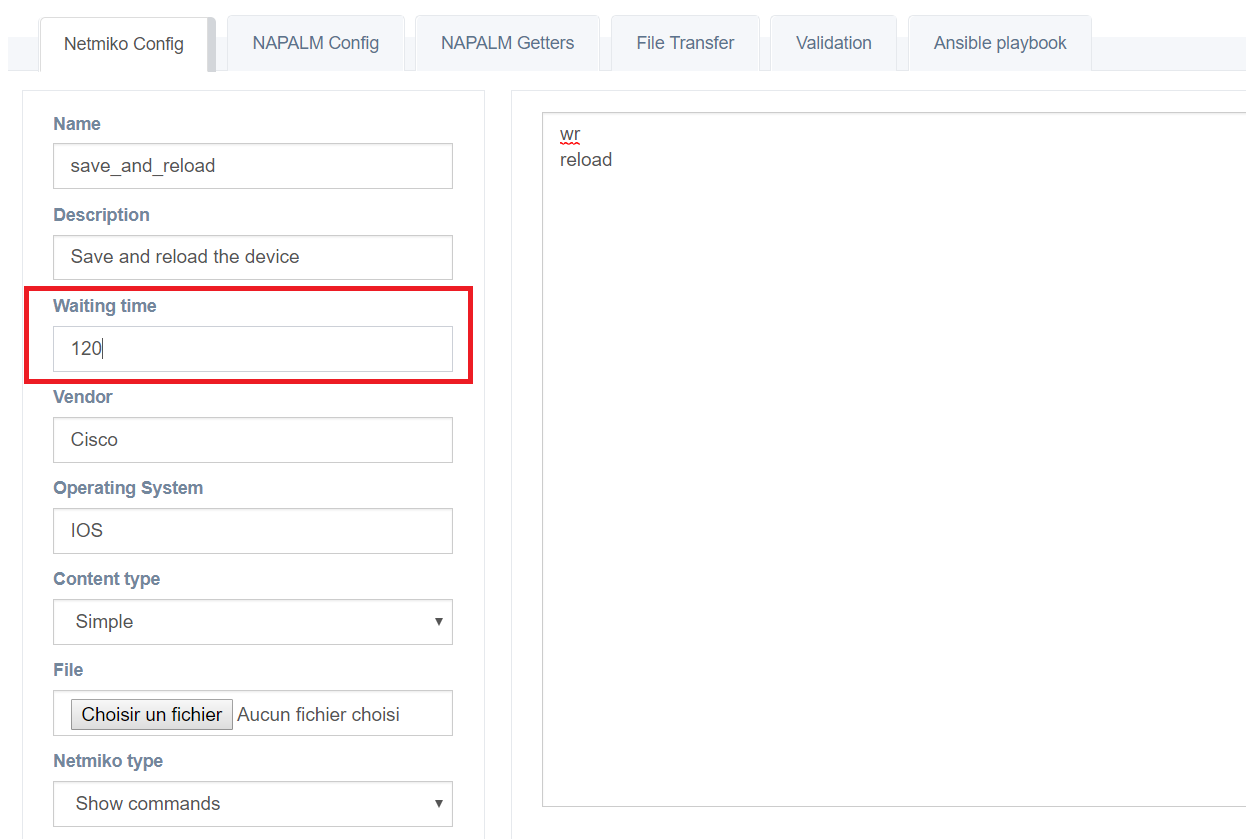
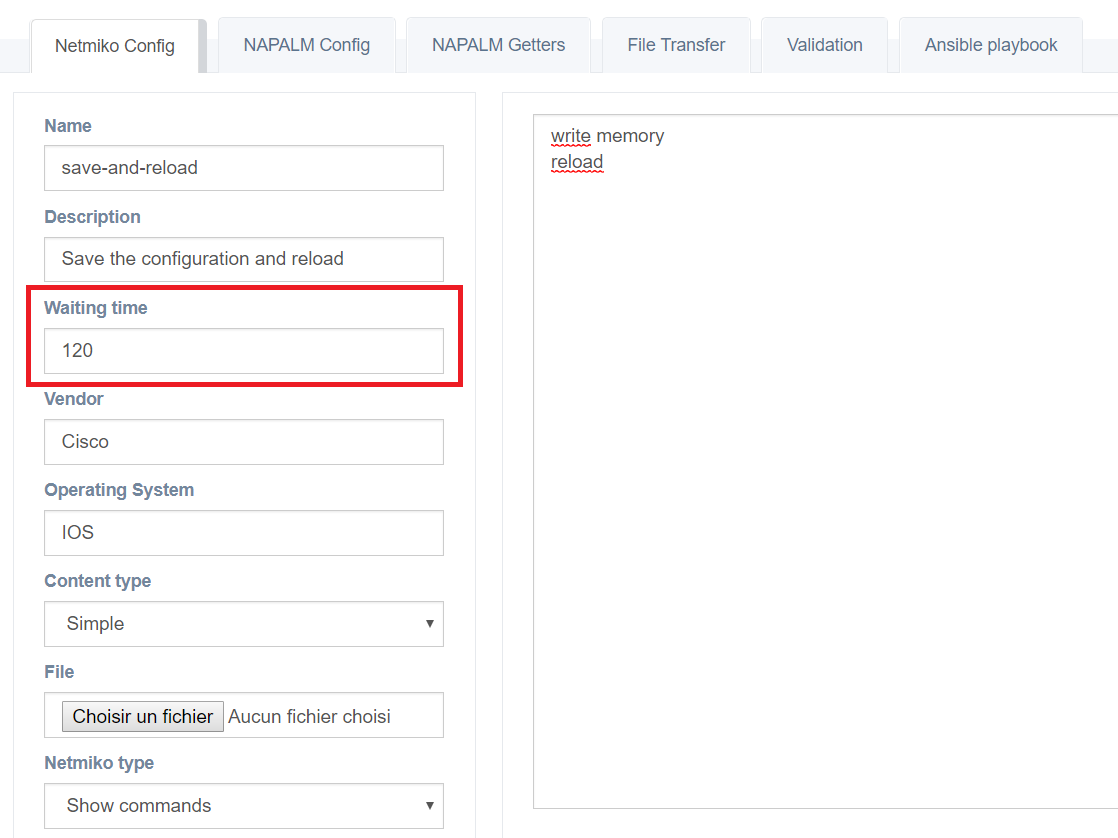
docs os upgrade part 3
Former-commit-id: 714081c3cc36c0fbf3154c4f45046ee4b99383e5

diff --git a/docs/automation/os_upgrade.rst b/docs/automation/os_upgrade.rst
@@ -4,10 +4,14 @@ OS upgrade
 
 We consider a Cisco router with IOS ``12.4(13r)T`` and the IOS image ``c1841-spservicesk9-mz.124-8.bin``.
 Let's create a workflow to upgrade to ``c1841-adventerprisek9-mz.124-8a.bin``.
+
+Creation of the scripts
+***********************
+
 The workflow will be composed of the following scripts: 
 
 1. Version check
-****************
+----------------
 
 We use a ``Netmiko validation`` script to make sure that the current IOS image used by the current is the one we want to update.
 In other words, we check that:
@@ -24,7 +28,7 @@ We create the following script ``version-check-before-reload`` from the :guilabe
    :align: center
 
 2. Transferring the new IOS image
-*********************************
+---------------------------------
 
 In order to transfer the new IOS image, we will use a ``Netmiko File Transfer`` script.
 We place the ``c1841-adventerprisek9-mz.124-8a.bin`` in the :guilabel:`eNMS/file_transfer` folder,
@@ -35,7 +39,7 @@ and we create the file transfer script:
    :align: center
 
 3. Preconfigure the router for the upgrade
-******************************************
+------------------------------------------
 
 We need to upgrade the configuration register to ``0x2102``, and tell the router to boot from the IOS image that we've uploaded in the last step.
 
@@ -46,7 +50,7 @@ We create a ``Netmiko configuration`` script of type ``configuration`` with the 
    :align: center
 
 4. Save and reload
-******************
+------------------
 
 We use a ``Netmiko configuration`` of type ``"show" commands`` to save the latest changes and reload the device.
 
@@ -59,7 +63,7 @@ After sending the script, we have to wait a bit for the device to reload and be 
    :align: center
 
 5. Post-reload version check
-****************************
+----------------------------
 
 We create a ``Netmiko validation`` script similar to the one used in the first step to check that the IOS image used by the router is indeed the new one.
 
@@ -67,32 +71,39 @@ We create a ``Netmiko validation`` script similar to the one used in the first s
    :alt: Post-check version
    :align: center
 
-2. Delete the old IOS image
-***************************
+6. Delete the old IOS image
+---------------------------
 
 Since we have uploaded a new IOS image and moved it to the flash memory, we need some space. We erase the old IOS image from the memory: ``delete /f /r c1841-spservicesk9-mz.124-8.bin``.
 
 We do not need to enter the configuration mode to type this command and delete the file, so we create a ``Netmiko configuration`` script of type ``"show" commands`` (and not ``configuration``).
 
-
-
-
+.. image:: /_static/automation/os_upgrade/delete_old_image.png
+   :alt: Delete the old IOS image
+   :align: center
 
 Creation of the workflow
-------------------------
+************************
+
+1. Creation form
+----------------
 
 In the :guilabel:`workflows/workflow_management` page, click on the button ``Add a new workflow`` and fill the workflow creation form.
 
-.. image:: /_static/automation/workflows/example3.png
-   :alt: Workflow builder
+.. image:: /_static/automation/os_upgrade/workflow_creation.png
+   :alt: Create workflow
    :align: center
 
-Building the workflow
----------------------
+2. Building the workflow
+------------------------
 
 In the :guilabel:`workflows/workflow_management` page, click on the button ``Manage`` of the newly created workflow. This opens the ``Workflow builder``.
 
-Click on the ``Add script`` button, and add all 4 scripts: ``configurebgp``, ``validatebgp``, ``NAPALM Commit`` and ``NAPALM Rollback``.
+Click on the ``Add script`` button, and add all 6 scripts:
+
+- ``version-check-before-reload``
+- ``preconfiguration``
+- ``transfer-new-image`` and ``NAPALM Rollback``.
 
 .. image:: /_static/automation/workflows/example4.png
    :alt: Workflow builder
